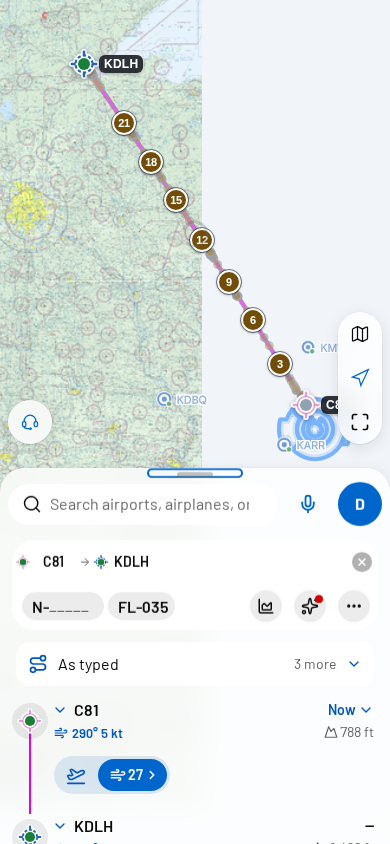
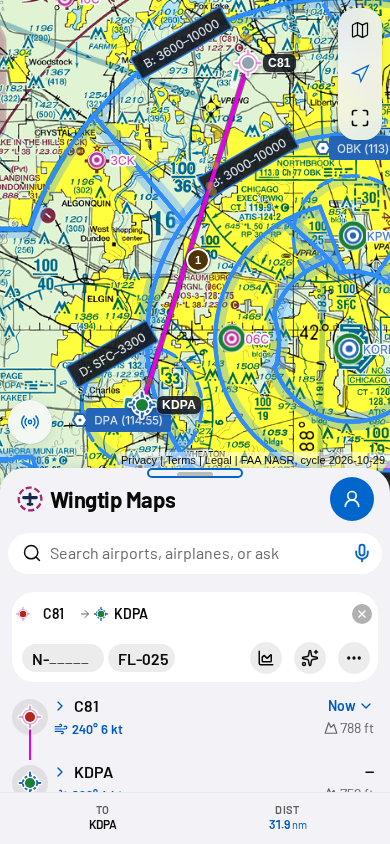
The installed app's phone screenshot (public/screenshots/narrow.png, the narrow picture the PWA manifest lists for Chrome's install dialog) now shows a chart drawn edge to edge: the route C81 to KDPA across Chicago's Class B on the sectional, with the plan in the half sheet. The last one came from t

diff --git a/apps/web/e2e/manifest-screenshots.spec.ts b/apps/web/e2e/manifest-screenshots.spec.ts
@@ -6,20 +6,24 @@ import { grabberTo, settle } from "./helpers";
  * The installed app's pictures (vite.config.ts' SCREENSHOTS): Chrome's
  * richer install dialog shows them with the manifest's description
  * (web.dev, "Richer install UI"). Each is the app's own screen against the
- * real stack, never drawn: the planner's test route, C81 to KDLH, on the
- * day's weather, with no airplane picked (decision 0011). Taken only when
- * asked, into public/screenshots, and committed:
+ * real stack, never drawn, on the day's weather, with no airplane picked
+ * (decision 0011). Taken only when asked, into public/screenshots, and
+ * committed:
  *
  *   MANIFEST_SHOTS=1 npx playwright test manifest-screenshots --project=mobile --project=desktop
  *
  * The mobile project's 390 by 844 is the narrow picture, the desktop's
- * 1280 by 800 the wide one.
+ * 1280 by 800 the wide one. The wide one is the planner's test route, C81
+ * to KDLH. The narrow one is C81 to KDPA round Chicago's Class B, a
+ * screenful of sectional on a phone; take it against a stack with the
+ * whole chart set (BASE_URL at the live stack), since the CI simulation
+ * draws only the test corridor's sheets and leaves most of that map blank.
  */
 test.skip(!process.env.MANIFEST_SHOTS, "Taken only when asked (MANIFEST_SHOTS=1)");
 
 test("the manifest's screenshot of the route and its plan", async ({ page }, info) => {
   const wide = info.project.name === "desktop";
-  await page.goto("/app/plan?dep=C81&dest=KDLH");
+  await page.goto(wide ? "/app/plan?dep=C81&dest=KDLH" : "/app/plan?dep=C81&dest=KDPA");
   await settle(page);
   if (!wide) await grabberTo(page, "half");
   await page.waitForLoadState("networkidle");
